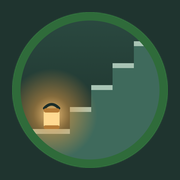
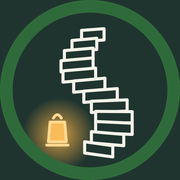
feat: 简易图标改为线条台阶加灯（小尺寸粗线版与大尺寸细线版）

diff --git a/README.md b/README.md
@@ -15,4 +15,4 @@ Static HTML/CSS for GitHub Pages (organisation site, repo `EmbedGrad/embedgrad.g
 
 ## Not decided yet
 
-Contact email, wordmark (the logo medallion is in `assets/brand/`; `logo-*.png` is the detailed illustrated medallion for big placements; the separately drawn simple icon (`icon.svg`, `icon-*.png`, `favicon.ico`) is for the header, favicon and Play), Chalkdoku's privacy policy text (depends on which SDKs the game ships with), support page, Chalkdoku store link (add only after the Play listing is public).
+Contact email, wordmark (the logo medallion is in `assets/brand/`; `logo-*.png` is the detailed illustrated medallion for big placements; the separately drawn simple icons are line-art stairs plus a lantern: `icon.svg`, `icon-16/32/64.png`, `favicon.ico` use the bold small-size version, `icon-192/512.png` and `apple-touch-icon.png` the finer line version; sources in `~/Tools/embedgrad-brand/`), Chalkdoku's privacy policy text (depends on which SDKs the game ships with), support page, Chalkdoku store link (add only after the Play listing is public).
